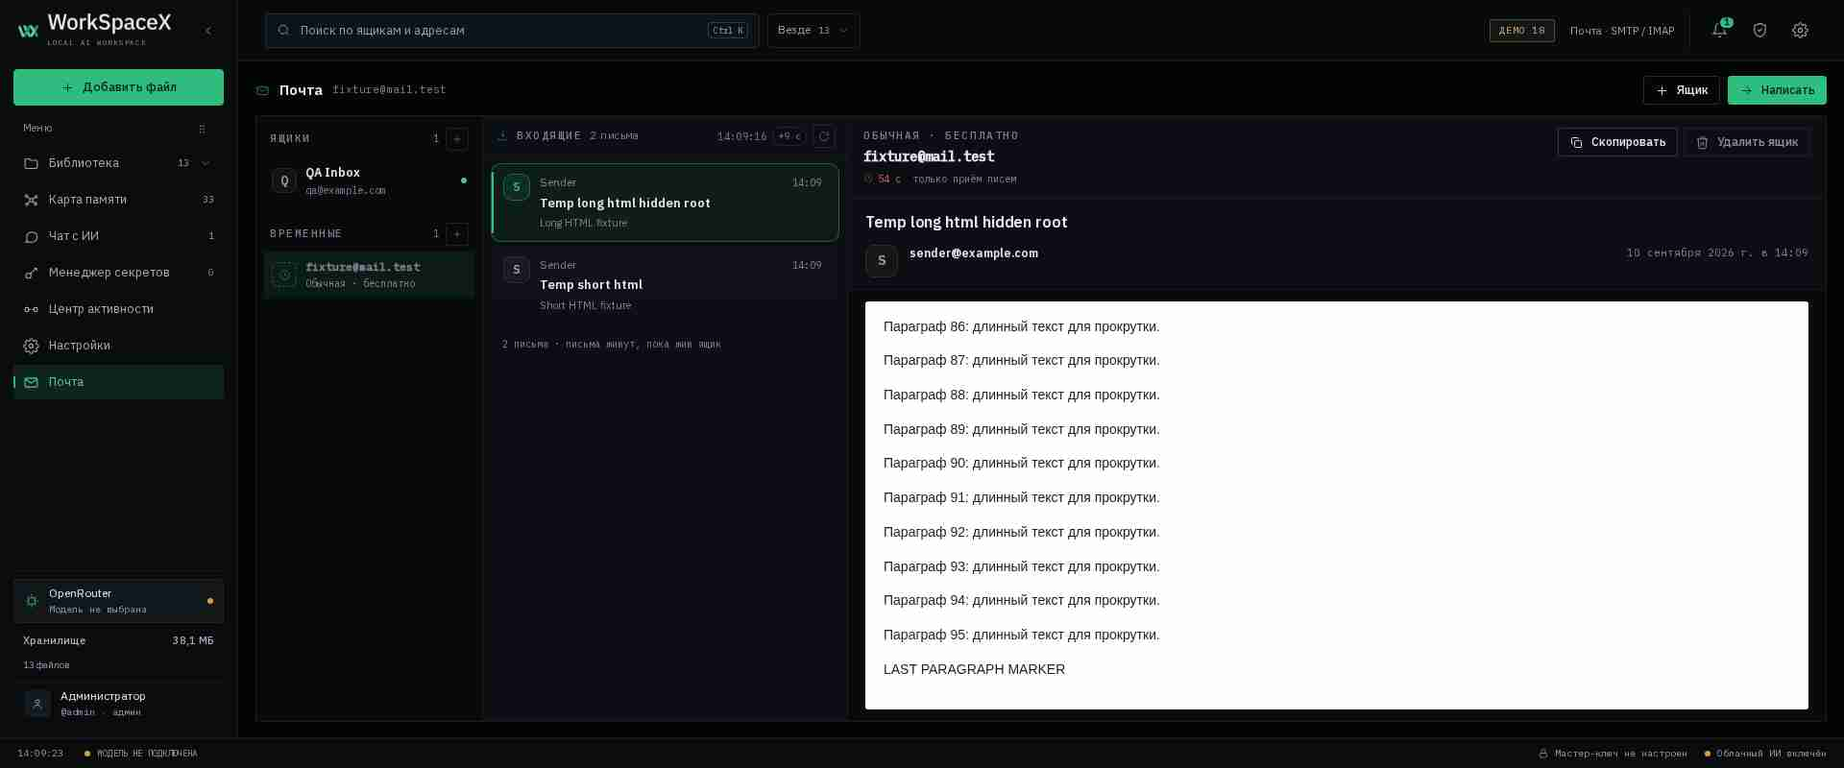
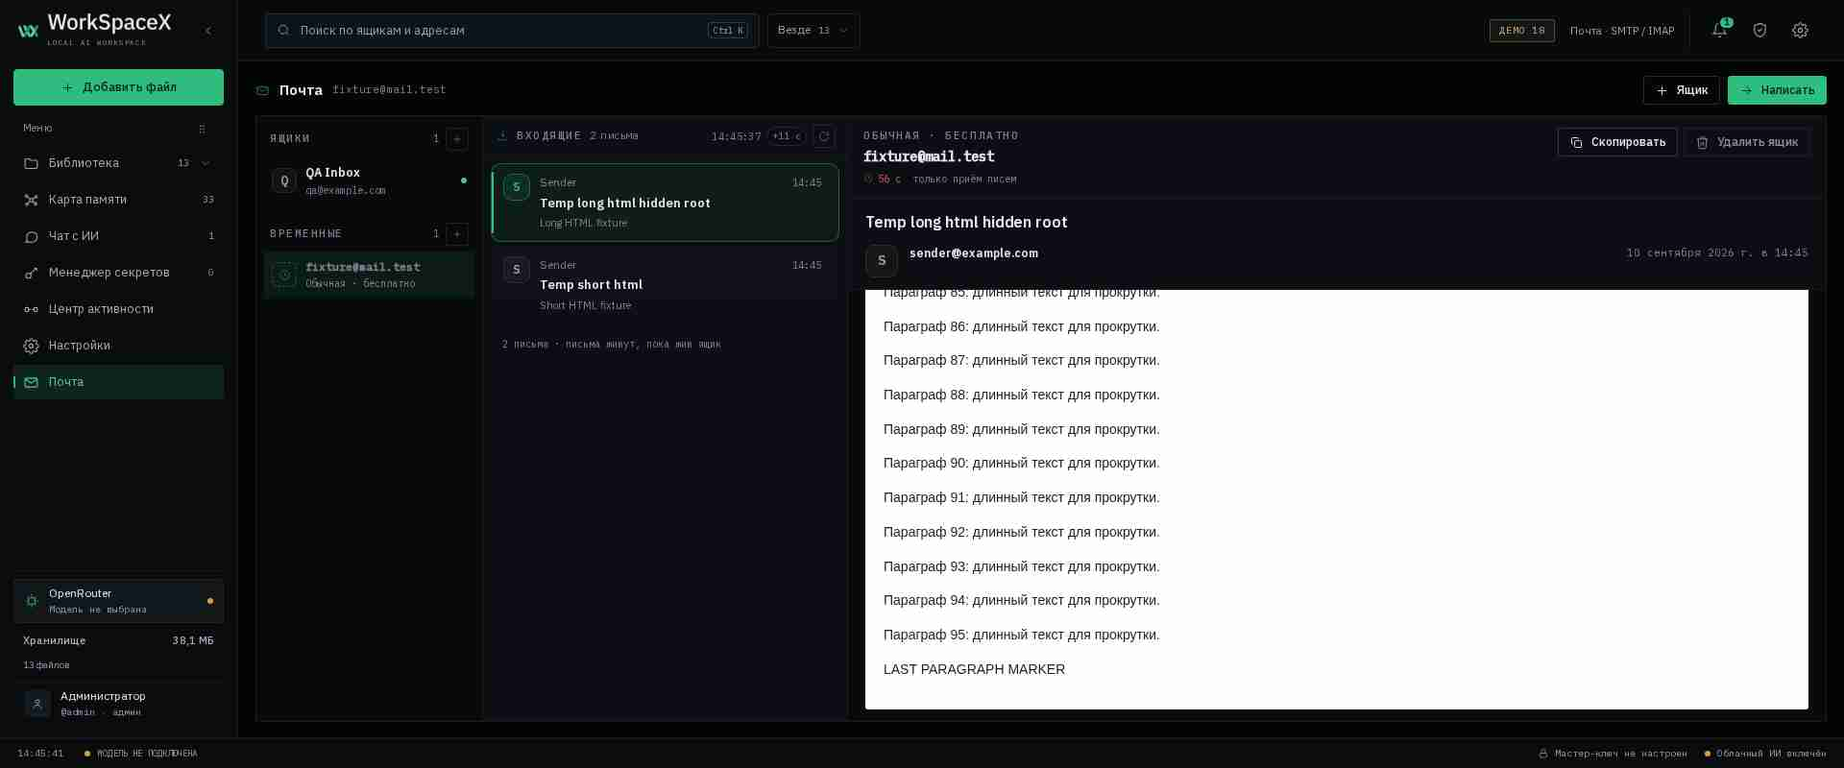
## Прокрутка письма исправлена
Нашёл настоящую причину: тело письма показывается в песочнице-iframe без общего origin, и колесо мыши над ним **не передаётся** родительской панели, а собственная прокрутка iframe упиралась в его высоту — низ письма оставался недоступен. Прошлая правка чинила только CSS отправителя, не механику прокрутки.

- Мост внутри письма (`mail-frame-bridge.ts`) теперь отдаёт наружу высоту содержимого и пересылает колесо + PageUp/PageDown/Home/End; высота iframe подгоняется под письмо, а прокручивает его сама панель `.mail-view-body` (сброс в начало при смене письма).
- Проверено на превью: письмо ~2600 px листается до конца, короткие письма не ломаются; e2e `63-mail-scroll-regression` — 3/3 на 1920×800, 1280×800 и 390×800, unit-тесты зелёные (2 падения — старые, из-за отсутствующих зависимостей `/app/desktop`).

Пожалуйста, проверьте у себя: откройте письмо и покрутите колесом (заодно работают PageDown/End).

- Next Action Items:
  - **Полноэкранное чтение**: Добавь кнопку «во весь экран» для письма, чтобы длинные письма читались без узкой колонки
  - **Кнопка «вниз»**: Покажи мягкую стрелку «к концу письма», когда письмо не влезает в панель
  - **Быстрое копирование кода**: Дай подсвечивать и копировать код подтверждения прямо из текста письма одним касанием
  - **Список вложений**: Покажи вложения временных писем с превью и скачиванием в один клик

Changed region(s): [[0.4688, 0.375, 1.0, 0.4062], [0.375, 0.1562, 0.4375, 0.1875]]

diff --git a/components/mail/mail-frame-bridge.ts b/components/mail/mail-frame-bridge.ts
@@ -58,6 +58,34 @@ export const MAIL_BRIDGE = `
       report(snapshot)
     }, 220)
   })
+  /* Высота письма уезжает наружу: страница подгоняет размер iframe под
+     содержимое, и прокручивает письмо своей полосой. Внутренняя прокрутка
+     iframe при этом не нужна — её край часто оказывается за окном. */
+  var lastH = 0
+  function measure() {
+    var d = document.documentElement
+    var b = document.body
+    var h = Math.max(d.scrollHeight, d.offsetHeight, b ? b.scrollHeight : 0, b ? b.offsetHeight : 0)
+    if (Math.abs(h - lastH) < 2) return
+    lastH = h
+    post('size', { h: h })
+  }
+  measure()
+  window.addEventListener('load', measure)
+  document.addEventListener('load', measure, true)
+  if (window.ResizeObserver) {
+    try { new ResizeObserver(measure).observe(document.documentElement) } catch (e) {}
+  }
+  ;[80, 300, 800, 2000, 4000].forEach(function (t) { setTimeout(measure, t) })
+  /* Колесо мыши внутри iframe наружу само не уходит (песочница без общего
+     origin не отдаёт прокрутку родителю), поэтому дельту пересылаем мостом. */
+  document.addEventListener('wheel', function (e) {
+    post('wheel', { dy: e.deltaY, dx: e.deltaX, mode: e.deltaMode })
+  }, { passive: true })
+  document.addEventListener('keydown', function (e) {
+    var keys = { PageDown: 1, PageUp: 1, Home: 1, End: 1 }
+    if (keys[e.key]) { e.preventDefault(); post('key', { key: e.key }) }
+  })
   document.addEventListener('pointerdown', function (e) { if (e.button !== 2) post('close') })
   document.addEventListener('keydown', function (e) { if (e.key === 'Escape') post('close') })
   document.addEventListener('scroll', function () { post('close') }, true)
@@ -91,6 +119,7 @@ type Meta = {
  */
 export function useMailFrameBridge(frameRef: RefObject<HTMLIFrameElement | null>, meta: Meta) {
   const [ctx, setCtx] = useState<MailCtx | null>(null)
+  const [frameHeight, setFrameHeight] = useState<number | null>(null)
   const closeCtx = useCallback(() => setCtx(null), [])
   const metaRef = useRef(meta)
   metaRef.current = meta
@@ -101,6 +130,11 @@ export function useMailFrameBridge(frameRef: RefObject<HTMLIFrameElement | null>
       if (!frame) return
       const d = e.data as {
         wsxMail?: string
+        h?: number
+        dy?: number
+        dx?: number
+        mode?: number
+        key?: string
         x?: number
         y?: number
         linkURL?: string | null
@@ -113,6 +147,27 @@ export function useMailFrameBridge(frameRef: RefObject<HTMLIFrameElement | null>
       /* Источник сверяем, только если браузер его отдал: у песочницы с
          opaque origin e.source в части сборок приходит пустым. */
       if (e.source && frame.contentWindow && e.source !== frame.contentWindow) return
+      if (d.wsxMail === 'size') {
+        const h = Number(d.h)
+        if (Number.isFinite(h) && h > 0) setFrameHeight(Math.ceil(h))
+        return
+      }
+      if (d.wsxMail === 'wheel' || d.wsxMail === 'key') {
+        const pane = frame.closest('.mail-view-body') as HTMLElement | null
+        if (!pane) return
+        if (d.wsxMail === 'wheel') {
+          const mode = d.mode ?? 0
+          const unit = mode === 1 ? 16 : mode === 2 ? pane.clientHeight : 1
+          pane.scrollBy({ top: (d.dy ?? 0) * unit, left: (d.dx ?? 0) * unit })
+          return
+        }
+        const step = pane.clientHeight * 0.9
+        if (d.key === 'PageDown') pane.scrollBy({ top: step })
+        else if (d.key === 'PageUp') pane.scrollBy({ top: -step })
+        else if (d.key === 'Home') pane.scrollTo({ top: 0 })
+        else if (d.key === 'End') pane.scrollTo({ top: pane.scrollHeight })
+        return
+      }
       if (d.wsxMail === 'close') {
         setCtx(null)
         return
@@ -137,11 +192,14 @@ export function useMailFrameBridge(frameRef: RefObject<HTMLIFrameElement | null>
 
   useEffect(() => {
     setCtx(null)
-  }, [meta.resetKey])
+    setFrameHeight(null)
+    const pane = frameRef.current?.closest('.mail-view-body') as HTMLElement | null
+    if (pane) pane.scrollTop = 0
+  }, [meta.resetKey, frameRef])
 
   const selectAll = useCallback(() => {
     frameRef.current?.contentWindow?.postMessage({ wsxMailCmd: 'select-all' }, '*')
   }, [frameRef])
 
-  return { ctx, closeCtx, selectAll }
+  return { ctx, closeCtx, selectAll, frameHeight }
 }

diff --git a/tests/e2e/63-mail-scroll-regression.spec.ts b/tests/e2e/63-mail-scroll-regression.spec.ts
@@ -258,6 +258,14 @@ async function mockMailRoutes(page: Page) {
   })
 }
 
+/** Прокрутку письма делает не iframe, а панель просмотра: iframe подогнан под
+ *  содержимое, а колесо и клавиши мост пересылает наружу. */
+const paneTop = (page: Page, frameTestId: string) =>
+  page.getByTestId(frameTestId).evaluate((el) => {
+    const pane = el.closest('.mail-view-body') as HTMLElement
+    return Math.round(pane.scrollTop)
+  })
+
 async function scrollToLastParagraphByWheel(page: Page, frameTestId: string, lastSelector = '#last') {
   const host = page.getByTestId(frameTestId)
   await expect(host).toBeVisible()
@@ -266,35 +274,42 @@ async function scrollToLastParagraphByWheel(page: Page, frameTestId: string, las
   expect(box).toBeTruthy()
   if (!box) return
 
-  await page.mouse.move(box.x + box.width / 2, box.y + Math.min(box.height / 2, 160))
   const frame = page.frameLocator(`[data-testid="${frameTestId}"]`)
   await expect(frame.locator(lastSelector)).toBeVisible({ timeout: 15_000 })
-  await frame.locator('body').click({ position: { x: 20, y: 20 } })
 
   // A visible iframe border alone is not a readable message (mobile regression).
-  expect(await host.evaluate(el => el.clientHeight)).toBeGreaterThan(100)
+  const pane = await host.evaluate((el) => {
+    const p = el.closest('.mail-view-body') as HTMLElement
+    return { ch: p.clientHeight, sh: p.scrollHeight }
+  })
+  expect(pane.ch).toBeGreaterThan(100)
+  expect(pane.sh, 'длинное письмо должно быть выше панели').toBeGreaterThan(pane.ch + 50)
 
+  await page.mouse.move(box.x + box.width / 2, box.y + Math.min(box.height / 2, 160))
   let reached = false
   for (let i = 0; i < 24; i++) {
     await page.mouse.wheel(0, 560)
     await page.waitForTimeout(80)
     const rect = await frame.locator(lastSelector).evaluate((el) => {
       const r = el.getBoundingClientRect()
-      return { top: r.top, bottom: r.bottom, vh: window.innerHeight }
+      return { top: r.top, bottom: r.bottom }
     })
-    if (rect.top < rect.vh && rect.bottom > 0) {
+    const frameBox = await host.boundingBox()
+    const top = (frameBox?.y ?? 0) + rect.top
+    const vh = page.viewportSize()?.height ?? 800
+    if (top < vh && top > 0) {
       reached = true
       break
     }
   }
-  expect(reached, 'wheel should bring LAST paragraph into iframe viewport').toBe(true)
+  expect(reached, 'wheel should bring LAST paragraph into the visible pane').toBe(true)
   await page.screenshot({ path: `test_reports/mail-scroll-${frameTestId}-${page.viewportSize()?.width}.jpeg`, quality: 20, fullPage: false })
 }
 
 async function expectFrameBottom(page: Page, frameTestId: string) {
-  await expect.poll(async () => page.frameLocator(`[data-testid="${frameTestId}"]`).locator('html').evaluate(() => {
-    const root = document.scrollingElement!
-    return Math.abs(root.scrollHeight - innerHeight - root.scrollTop)
+  await expect.poll(async () => page.getByTestId(frameTestId).evaluate((el) => {
+    const pane = el.closest('.mail-view-body') as HTMLElement
+    return Math.abs(pane.scrollHeight - pane.clientHeight - pane.scrollTop)
   })).toBeLessThan(3)
 }
 
@@ -361,10 +376,7 @@ for (const vp of VIEWPORTS) {
     await page.keyboard.press('End')
     await expectFrameBottom(page, 'mail-msg-view-frame')
     await page.getByTestId('mail-msg-open-1001').click()
-    const topAfterSwitch = await page.frameLocator('[data-testid="mail-msg-view-frame"]').locator('body').evaluate(() => {
-      const root = document.scrollingElement ?? document.documentElement
-      return root.scrollTop
-    })
+    const topAfterSwitch = await paneTop(page, 'mail-msg-view-frame')
     expect(topAfterSwitch).toBeLessThan(30)
 
     // ---- MailTempPane (временный ящик) ----
@@ -377,11 +389,8 @@ for (const vp of VIEWPORTS) {
 
     // Scroll back to top and ensure body starts near top.
     await page.mouse.wheel(0, -9_000)
-    await page.waitForTimeout(120)
-    const topAfterBack = await page.frameLocator('[data-testid="mail-temp-frame"]').locator('body').evaluate(() => {
-      const root = document.scrollingElement ?? document.documentElement
-      return root.scrollTop
-    })
+    await page.waitForTimeout(200)
+    const topAfterBack = await paneTop(page, 'mail-temp-frame')
     expect(topAfterBack).toBeLessThan(20)
 
     await page.getByTestId('mail-temp-open-tmp-short').click()

diff --git a/tests/unit/mail-frame-scroll-bridge.test.ts b/tests/unit/mail-frame-scroll-bridge.test.ts
@@ -1,0 +1,28 @@
+import { readFileSync } from 'node:fs'
+import path from 'node:path'
+import { describe, expect, it } from 'vitest'
+import { MAIL_BRIDGE } from '@/components/mail/mail-frame-bridge'
+
+const read = (p: string) => readFileSync(path.join(process.cwd(), p), 'utf8')
+
+describe('прокрутка открытого письма', () => {
+  it('мост отдаёт наружу высоту письма и дельту колеса', () => {
+    expect(MAIL_BRIDGE).toContain("post('size'")
+    expect(MAIL_BRIDGE).toContain("post('wheel'")
+    expect(MAIL_BRIDGE).toContain('ResizeObserver')
+  })
+
+  it('страница подгоняет высоту iframe под содержимое в обоих просмотрщиках', () => {
+    for (const f of ['components/mail/mail-temp-pane.tsx', 'components/mail/mail-msg-view.tsx']) {
+      const src = read(f)
+      expect(src).toContain('frameHeight')
+      expect(src).toContain('style={frameHeight ? { height: `${frameHeight}px` } : undefined}')
+    }
+  })
+
+  it('контейнер письма прокручивается сам', () => {
+    const css = read('app/styles/screen-mail.css')
+    const body = css.slice(css.indexOf('.mail-view-body {'), css.indexOf('.mail-frame {'))
+    expect(body).toContain('overflow-y: auto')
+  })
+})

diff --git a/components/mail/mail-temp-pane.tsx b/components/mail/mail-temp-pane.tsx
@@ -164,7 +164,7 @@ export function MailTempPane({ box, onBox, onRemove }: Props) {
   /* ПКМ внутри письма: событие ловит мост внутри iframe и присылает наружу
      всё, что было под курсором (тот же мост, что в обычных ящиках). */
   const frameRef = useRef<HTMLIFrameElement>(null)
-  const { ctx, closeCtx, selectAll } = useMailFrameBridge(frameRef, {
+  const { ctx, closeCtx, selectAll, frameHeight } = useMailFrameBridge(frameRef, {
     subject: msg?.subject,
     fromAddress: msg?.from ?? null,
     resetKey: msg?.mid ?? null,
@@ -344,6 +344,7 @@ export function MailTempPane({ box, onBox, onRemove }: Props) {
                 sandbox="allow-scripts allow-popups allow-popups-to-escape-sandbox"
                 referrerPolicy="no-referrer"
                 srcDoc={doc}
+                style={frameHeight ? { height: `${frameHeight}px` } : undefined}
                 data-testid="mail-temp-frame"
               />
             </div>

diff --git a/components/mail/mail-msg-view.tsx b/components/mail/mail-msg-view.tsx
@@ -88,7 +88,7 @@ export function MailMsgView({ message: m, loading, error, onFlag, onBack }: Prop
     }
   }, [m])
   const frameRef = useRef<HTMLIFrameElement>(null)
-  const { ctx, closeCtx, selectAll } = useMailFrameBridge(frameRef, {
+  const { ctx, closeCtx, selectAll, frameHeight } = useMailFrameBridge(frameRef, {
     subject: m?.subject,
     fromAddress: m?.from?.address ?? null,
     resetKey: m ? `${m.folder}:${m.uid}` : null,
@@ -166,6 +166,7 @@ export function MailMsgView({ message: m, loading, error, onFlag, onBack }: Prop
           sandbox="allow-scripts allow-popups allow-popups-to-escape-sandbox"
           referrerPolicy="no-referrer"
           srcDoc={doc}
+          style={frameHeight ? { height: `${frameHeight}px` } : undefined}
           data-testid="mail-msg-view-frame"
         />
       </div>

diff --git a/app/styles/screen-mail.css b/app/styles/screen-mail.css
@@ -2150,11 +2150,15 @@
     min-height: 0;
     padding: 12px 18px;
     background: var(--bg-2);
+    overflow-y: auto;
+    overflow-x: hidden;
+    overscroll-behavior: contain;
   }
 
   .mail-frame {
     width: 100%;
     height: 100%;
+    min-height: 100%;
     border: 1px solid var(--border-2);
     border-radius: var(--r);
     background: #fff;

diff --git a/scripts/qa-send-long-mail.py b/scripts/qa-send-long-mail.py
@@ -1,0 +1,29 @@
+"""Длинное письмо на адрес mail.tm — для проверки прокрутки открытого письма.
+
+Запуск: python3 scripts/qa-send-long-mail.py <адрес@uberip.com>
+"""
+
+import smtplib
+import sys
+import uuid
+from email.message import EmailMessage
+
+TO = sys.argv[1]
+BLOCKS = "\n".join(
+    f'<p style="font-size:16px">Абзац {i}: длинное письмо для проверки прокрутки. '
+    f'Строка {i} из 60, текст занимает несколько экранов.</p>'
+    for i in range(1, 61)
+)
+HTML = f'<html><body style="overflow:hidden;height:100%"><h1>Длинное письмо</h1>{BLOCKS}<p id="tail">КОНЕЦ ПИСЬМА · 999111</p></body></html>'
+
+msg = EmailMessage()
+msg["From"] = "qa-bot@uberip-qa.example.com"
+msg["To"] = TO
+msg["Subject"] = "Проверка прокрутки: длинное письмо"
+msg["Message-ID"] = f"<{uuid.uuid4()}@uberip-qa.example.com>"
+msg.set_content("Длинное письмо, текстовая часть")
+msg.add_alternative(HTML, subtype="html")
+
+with smtplib.SMTP("in.mail.tm", 25, timeout=30) as s:
+    s.send_message(msg)
+print("sent to", TO)

diff --git a/memory/PRD.md b/memory/PRD.md
@@ -625,3 +625,35 @@ User has a smailpro.com *web* Premium subscription but no API key, and asked to 
 
 Бэклог: вынести draw-логику карты в отдельный модуль (screen-map.tsx ~2100 строк), продолжить
 декомпозицию screen-library.tsx, проверка картинок на реальном IMAP.
+
+---
+
+## Итерация 64 · 10.09.2026 — прокрутка открытого письма (колесо мыши)
+
+**Проблема пользователя**: письмо открывается, но не листается — видна только верхняя часть.
+
+**Настоящая причина** (найдена воспроизведением в браузере): тело письма живёт в песочнице
+iframe без общего origin. Колесо мыши над таким iframe **не передаёт прокрутку родителю**
+(нет scroll chaining), а собственная прокрутка iframe упиралась в его высоту: нижний край
+письма оставался за пределами видимой части панели. Предыдущая правка (`MAIL_FRAME_SCROLL_STYLE`)
+лечила только CSS отправителя, но не саму механику прокрутки.
+
+**Что сделано**:
+1. `components/mail/mail-frame-bridge.ts` — мост внутри письма теперь:
+   - измеряет высоту письма (ResizeObserver + load + несколько таймеров) и отдаёт её наружу
+     сообщением `size`;
+   - пересылает наружу дельту колеса (`wheel`) и клавиши PageUp/PageDown/Home/End (`key`).
+   Хук `useMailFrameBridge` возвращает `frameHeight`, скроллит панель `.mail-view-body`
+   и сбрасывает её прокрутку при смене письма.
+2. `components/mail/mail-msg-view.tsx`, `components/mail/mail-temp-pane.tsx` — высота iframe
+   подгоняется под содержимое (`style={{height}}`), прокручивает письмо сама панель.
+3. `app/styles/screen-mail.css` — `.mail-view-body { overflow-y: auto; overscroll-behavior: contain }`,
+   `.mail-frame { min-height: 100% }` (короткие письма по-прежнему заполняют панель).
+
+**Проверено**: превью (обычное и длинное письмо ~2600 px — доскроллено до «КОНЕЦ ПИСЬМА»,
+смена письма сбрасывает прокрутку в начало), e2e `tests/e2e/63-mail-scroll-regression.spec.ts`
+обновлён на новую механику — 3/3 (1920×800, 1280×800, 390×800), unit
+`tests/unit/mail-frame-scroll-bridge.test.ts` (новый) + 333 unit-теста зелёные
+(2 файла падают из-за отсутствующих зависимостей `/app/desktop` — старое окружение, не связано).
+
+Вспомогательный скрипт для ручной проверки: `scripts/qa-send-long-mail.py <адрес@uberip.com>`.

diff --git a/memory/test_credentials.md b/memory/test_credentials.md
@@ -1,6 +1,7 @@
 # Тестовые реквизиты (актуально: сессия «прокрутка открытого письма»)
 
-- Превью: https://bb33431c-b483-49a3-9a1a-4eb300fe5e7c.preview.emergentagent.com (локально http://localhost:3000)
+- Превью: https://tokens-84.preview.emergentagent.com (локально http://localhost:3000)
+- Онбординг в чистом профиле: «Дальше · мастер-ключ» → «Продолжить без защиты» → «Да, продолжить без защиты» → «Посмотреть демо».
 - Вход: логин `admin`, пароль `WsxQa2026!lib` (значение лежит в `/app/.env.local` → `APP_PASSWORD`, `ADMIN_LOGIN=admin`).
   Поля входа: `data-testid=login-login`, `data-testid=login-password`.
 - `/app/.env.local` восстановлен после сброса пода: `APP_SESSION_SECRET` и `MAIL_SECRET` **новые**,
